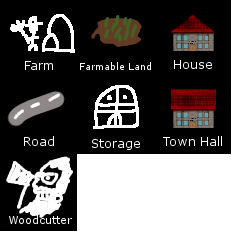
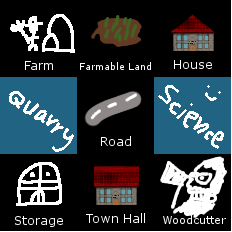
Added scientist

diff --git a/crown/Controls/MenuBuilder.cs b/crown/Controls/MenuBuilder.cs
@@ -14,7 +14,7 @@ namespace crown {
             Button buttonTownhall = new Button();
             buttonTownhall.Pos = new Vector2(xPos + 20, yPos + 20);
             buttonTownhall.Rect = new Rectangle(xPos + 20, yPos + 20, (int)menuTileSheet.Sprite(TexturePackerMonoGameDefinitions.menuAtlas.Buttonfarmland).Size.X, (int)menuTileSheet.Sprite(TexturePackerMonoGameDefinitions.menuAtlas.Buttonfarmland).Size.Y);
-            buttonTownhall.Type = Button.ButtonType.BUTTON_TOWNHALL;
+            buttonTownhall.Type = Button.ButtonType.TOWNHALL;
             buttonTownhall.SpriteFrame = menuTileSheet.Sprite(TexturePackerMonoGameDefinitions.menuAtlas.Buttontownhall);
             menuButtons.Add(buttonTownhall);
         }
@@ -27,7 +27,7 @@ namespace crown {
             Button buttonHouse = new Button();
             buttonHouse.Pos = new Vector2(xPos, yPos);
             buttonHouse.Rect = new Rectangle(xPos, yPos, (int)menuTileSheet.Sprite(TexturePackerMonoGameDefinitions.menuAtlas.Buttonfarmland).Size.X, (int)menuTileSheet.Sprite(TexturePackerMonoGameDefinitions.menuAtlas.Buttonfarmland).Size.Y);
-            buttonHouse.Type = Button.ButtonType.BUTTON_HOUSE;
+            buttonHouse.Type = Button.ButtonType.HOUSE;
             buttonHouse.SpriteFrame = menuTileSheet.Sprite(TexturePackerMonoGameDefinitions.menuAtlas.Buttonhouse);
             menuButtons.Add(buttonHouse);
 
@@ -36,7 +36,7 @@ namespace crown {
             Button buttonRoads = new Button();
             buttonRoads.Pos = new Vector2(xPos, yPos);
             buttonRoads.Rect = new Rectangle(xPos, yPos, (int)menuTileSheet.Sprite(TexturePackerMonoGameDefinitions.menuAtlas.Buttonfarmland).Size.X, (int)menuTileSheet.Sprite(TexturePackerMonoGameDefinitions.menuAtlas.Buttonfarmland).Size.Y);
-            buttonRoads.Type = Button.ButtonType.BUTTON_ROAD;
+            buttonRoads.Type = Button.ButtonType.ROAD;
             buttonRoads.SpriteFrame = menuTileSheet.Sprite(TexturePackerMonoGameDefinitions.menuAtlas.Buttonroad);
             menuButtons.Add(buttonRoads);
 
@@ -45,7 +45,7 @@ namespace crown {
             Button buttonFarm = new Button();
             buttonFarm.Pos = new Vector2(xPos, yPos);
             buttonFarm.Rect = new Rectangle(xPos, yPos, (int)menuTileSheet.Sprite(TexturePackerMonoGameDefinitions.menuAtlas.Buttonfarmland).Size.X, (int)menuTileSheet.Sprite(TexturePackerMonoGameDefinitions.menuAtlas.Buttonfarmland).Size.Y);
-            buttonFarm.Type = Button.ButtonType.BUTTON_FARM;
+            buttonFarm.Type = Button.ButtonType.FARM;
             buttonFarm.SpriteFrame = menuTileSheet.Sprite(TexturePackerMonoGameDefinitions.menuAtlas.Buttonfarm);
             menuButtons.Add(buttonFarm);
 
@@ -54,7 +54,7 @@ namespace crown {
             Button buttonWoodcutter = new Button();
             buttonWoodcutter.Pos = new Vector2(xPos, yPos);
             buttonWoodcutter.Rect = new Rectangle(xPos, yPos, (int)menuTileSheet.Sprite(TexturePackerMonoGameDefinitions.menuAtlas.Buttonfarmland).Size.X, (int)menuTileSheet.Sprite(TexturePackerMonoGameDefinitions.menuAtlas.Buttonfarmland).Size.Y);
-            buttonWoodcutter.Type = Button.ButtonType.BUTTON_WOODCUTTER;
+            buttonWoodcutter.Type = Button.ButtonType.WOODCUTTER;
             buttonWoodcutter.SpriteFrame = menuTileSheet.Sprite(TexturePackerMonoGameDefinitions.menuAtlas.Buttonwoodcutter);
             menuButtons.Add(buttonWoodcutter);
 
@@ -64,7 +64,7 @@ namespace crown {
             Button buttonStorage = new Button();
             buttonStorage.Pos = new Vector2(xPos, yPos);
             buttonStorage.Rect = new Rectangle(xPos, yPos, (int)menuTileSheet.Sprite(TexturePackerMonoGameDefinitions.menuAtlas.Buttonfarmland).Size.X, (int)menuTileSheet.Sprite(TexturePackerMonoGameDefinitions.menuAtlas.Buttonfarmland).Size.Y);
-            buttonStorage.Type = Button.ButtonType.BUTTON_STORAGE;
+            buttonStorage.Type = Button.ButtonType.STORAGE;
             buttonStorage.SpriteFrame = menuTileSheet.Sprite(TexturePackerMonoGameDefinitions.menuAtlas.Buttonstorage);
             menuButtons.Add(buttonStorage);
 
@@ -73,9 +73,18 @@ namespace crown {
             Button buttonQuarry = new Button();
             buttonQuarry.Pos = new Vector2(xPos, yPos);
             buttonQuarry.Rect = new Rectangle(xPos, yPos, (int)menuTileSheet.Sprite(TexturePackerMonoGameDefinitions.menuAtlas.Buttonfarmland).Size.X, (int)menuTileSheet.Sprite(TexturePackerMonoGameDefinitions.menuAtlas.Buttonfarmland).Size.Y);
-            buttonQuarry.Type = Button.ButtonType.BUTTON_QUARRY;
-            buttonQuarry.SpriteFrame = menuTileSheet.Sprite(TexturePackerMonoGameDefinitions.menuAtlas.Buttonstorage);
+            buttonQuarry.Type = Button.ButtonType.QUARRY;
+            buttonQuarry.SpriteFrame = menuTileSheet.Sprite(TexturePackerMonoGameDefinitions.menuAtlas.Buttonquarry);
             menuButtons.Add(buttonQuarry);
+
+            xPos += xOffset;
+
+            Button buttonScientist = new Button();
+            buttonScientist.Pos = new Vector2(xPos, yPos);
+            buttonScientist.Rect = new Rectangle(xPos, yPos, (int)menuTileSheet.Sprite(TexturePackerMonoGameDefinitions.menuAtlas.Buttonfarmland).Size.X, (int)menuTileSheet.Sprite(TexturePackerMonoGameDefinitions.menuAtlas.Buttonfarmland).Size.Y);
+            buttonScientist.Type = Button.ButtonType.SCIENTIST;
+            buttonScientist.SpriteFrame = menuTileSheet.Sprite(TexturePackerMonoGameDefinitions.menuAtlas.Buttonscientist);
+            menuButtons.Add(buttonScientist);
         }
 
     }

diff --git a/crown/Game1.cs b/crown/Game1.cs
@@ -194,18 +194,20 @@ namespace crown {
         private void MenuControls(Point mousePoint) {
             foreach (Button button in menuButtons)
                 if (button.Rect.Contains(mousePoint)) {
-                    if (button.Type == Button.ButtonType.BUTTON_TOWNHALL)
+                    if (button.Type == Button.ButtonType.TOWNHALL)
                         mouseAction = MouseAction.TOWNHALL;
-                    else if (button.Type == Button.ButtonType.BUTTON_ROAD)
+                    else if (button.Type == Button.ButtonType.ROAD)
                         mouseAction = MouseAction.ROAD;
-                    else if (button.Type == Button.ButtonType.BUTTON_HOUSE)
+                    else if (button.Type == Button.ButtonType.HOUSE)
                         mouseAction = MouseAction.HOUSE;
-                    else if (button.Type == Button.ButtonType.BUTTON_FARM)
+                    else if (button.Type == Button.ButtonType.FARM)
                         mouseAction = MouseAction.FARM;
-                    else if (button.Type == Button.ButtonType.BUTTON_WOODCUTTER)
+                    else if (button.Type == Button.ButtonType.WOODCUTTER)
                         mouseAction = MouseAction.WOODCUTTER;
-                    else if (button.Type == Button.ButtonType.BUTTON_QUARRY)
+                    else if (button.Type == Button.ButtonType.QUARRY)
                         mouseAction = MouseAction.QUARRY;
+                    else if (button.Type == Button.ButtonType.SCIENTIST)
+                        mouseAction = MouseAction.SCIENTIST;
                 }
         }
 
@@ -264,6 +266,10 @@ namespace crown {
                     costs = Costs.FarmCosts();
                 if (mouseAction == MouseAction.WOODCUTTER)
                     costs = Costs.WoodcutterCosts();
+                if (mouseAction == MouseAction.QUARRY)
+                    costs = Costs.QuarryCosts();
+                if (mouseAction == MouseAction.SCIENTIST)
+                    costs = Costs.ScientistCosts();
 
                 if (costs != null) {
                     spriteBatch.DrawString(font, mouseAction.ToString(), new Vector2(16, 351), Color.White);

diff --git a/crown/Buildings/Scientist.cs b/crown/Buildings/Scientist.cs
@@ -1,0 +1,40 @@
+using Microsoft.Xna.Framework;
+using TexturePackerLoader;
+using static crown.Game1;
+
+namespace crown.Buildings {
+    class Scientist : Building {
+
+        public Scientist(SpriteFrame spriteFrame, Vector2 position, Rectangle rect, BuildingTypes type, Costs costs) : base(spriteFrame, position, rect, type, costs) {
+        }
+
+        public override void Update() {
+            if (BuildingState == 4) {
+                // People move in and are ready to work
+                Initialize();
+                BuildingState = 5;
+            } else if (BuildingState == 5) {
+
+                // Update resources
+                if (ActionTick > 5) {
+
+                    ActionTick = 0;
+                }
+
+                ActionTick++;
+            }
+        }
+
+        public override void UpdateSprite() {
+            if (BuildingState == 0)
+                SpriteFrame = buildingTileSheet.Sprite(TexturePackerMonoGameDefinitions.buildingAtlas.LargeSelect);
+            if (BuildingState == 1)
+                SpriteFrame = buildingTileSheet.Sprite(TexturePackerMonoGameDefinitions.buildingAtlas.LargeSelect);
+            if (BuildingState == 2)
+                SpriteFrame = buildingTileSheet.Sprite(TexturePackerMonoGameDefinitions.buildingAtlas.LargeSelect);
+            if (BuildingState == 3)
+                SpriteFrame = buildingTileSheet.Sprite(TexturePackerMonoGameDefinitions.buildingAtlas.Scientist);
+        }
+
+    }
+}

diff --git a/crown/SpriteSheets/menuAtlas.cs b/crown/SpriteSheets/menuAtlas.cs
@@ -4,7 +4,7 @@
  * Contains references to each image within the sprite sheet.
  *
  * http://www.codeandweb.com/texturepacker
- * $TexturePacker:SmartUpdate:267c17b291541c1dbedcd2bfd5741068:39ed80fc22ec5ae2918c075b45abb164:bd0f4c71b5cb59f99b3ec3385caa636d$
+ * $TexturePacker:SmartUpdate:916c2e3144c7f988415c70a210acb71f:9ea768b555e2dcd7e1e16591c20fc2ed:bd0f4c71b5cb59f99b3ec3385caa636d$
  *
  */
 namespace TexturePackerMonoGameDefinitions
@@ -14,7 +14,9 @@ namespace TexturePackerMonoGameDefinitions
 		public const string Buttonfarm = "buttonfarm";
 		public const string Buttonfarmland = "buttonfarmland";
 		public const string Buttonhouse = "buttonhouse";
+		public const string Buttonquarry = "buttonquarry";
 		public const string Buttonroad = "buttonroad";
+		public const string Buttonscientist = "buttonscientist";
 		public const string Buttonstorage = "buttonstorage";
 		public const string Buttontownhall = "buttontownhall";
 		public const string Buttonwoodcutter = "buttonwoodcutter";

diff --git a/crown/SpriteSheets/buildingAtlas.cs b/crown/SpriteSheets/buildingAtlas.cs
@@ -4,7 +4,7 @@
  * Contains references to each image within the sprite sheet.
  *
  * http://www.codeandweb.com/texturepacker
- * $TexturePacker:SmartUpdate:a16777abdbeb0a4d11603705e89cb2c3:6cf66f83230fe79a0c79dbd8865472a0:905072b72ea92acf8fa5b0216a681f3c$
+ * $TexturePacker:SmartUpdate:d5ff0d81d94fb42e95c36da221316700:89f18e023deb2ed8f717be74ee758396:905072b72ea92acf8fa5b0216a681f3c$
  *
  */
 namespace TexturePackerMonoGameDefinitions
@@ -26,6 +26,7 @@ namespace TexturePackerMonoGameDefinitions
 		public const string House8 = "house8";
 		public const string LargeSelect = "largeSelect";
 		public const string Quarry = "quarry";
+		public const string Scientist = "scientist";
 		public const string SmallSelect = "smallSelect";
 		public const string Townhall = "townhall";
 		public const string Woodcutter4 = "woodcutter4";

diff --git a/crown/Drawing.cs b/crown/Drawing.cs
@@ -24,7 +24,7 @@ namespace crown {
         public static void DrawMouseSelection(SpriteRender spriteRender, Vector2 mousePosition, MouseAction mouseAction) {
             SpriteFrame spriteframe = null;
 
-            if (mouseAction == MouseAction.TOWNHALL || mouseAction == MouseAction.FARM)
+            if (mouseAction == MouseAction.TOWNHALL || mouseAction == MouseAction.FARM || mouseAction == MouseAction.SCIENTIST)
                 spriteframe = buildingTileSheet.Sprite(TexturePackerMonoGameDefinitions.buildingAtlas.LargeSelect);
             if (mouseAction == MouseAction.HOUSE || mouseAction == MouseAction.ROAD || mouseAction == MouseAction.WOODCUTTER || mouseAction == MouseAction.QUARRY)
                 spriteframe = buildingTileSheet.Sprite(TexturePackerMonoGameDefinitions.buildingAtlas.SmallSelect);

diff --git a/crown/Buildings/Costs.cs b/crown/Buildings/Costs.cs
@@ -55,6 +55,19 @@ namespace crown {
                              0);   // FoodUpkeep
         }
 
+        internal static Costs ScientistCosts() {
+            return new Costs(0,     // Stone 
+                             -100,    // Wood
+                             -500,   // Gold
+                             0,     // Workers
+                             0,     // Population
+                             0,     // Food
+                             -50,     // GoldUpkeep
+                             -10,     // WoodUpkeep
+                             -8,     // StoneUpkeep
+                             -5);   // FoodUpkeep
+        }
+
         int stone;
         int wood;
         int gold;

diff --git a/crown/Controls/Controls.cs b/crown/Controls/Controls.cs
@@ -33,6 +33,9 @@ namespace crown {
                     if (mouseAction == MouseAction.QUARRY) {
                         BuildingOperations.BuildQuarry(tile, Building.BuildingTypes.QUARRY, Costs.WoodcutterCosts());
                     }
+                    if (mouseAction == MouseAction.SCIENTIST) {
+                        BuildingOperations.BuildLargeBuilding(tile, Building.BuildingTypes.SCIENTIST, Costs.ScientistCosts());
+                    }
                     if (mouseAction == MouseAction.ROAD) {
                         BuildingOperations.BuildRoad(tile, false);
                     }

diff --git a/crown/Controls/BuildingOperations.cs b/crown/Controls/BuildingOperations.cs
@@ -144,6 +144,8 @@ namespace crown {
         private static Building GetLargeBuilding(SpriteFrame spriteFrame, Vector2 pos, Rectangle rect, Building.BuildingTypes type, Costs costs) {
             if (type == Building.BuildingTypes.FARM)
                 return new Farm(spriteFrame, pos, rect, type, costs);
+            if (type == Building.BuildingTypes.SCIENTIST)
+                return new Scientist(spriteFrame, pos, rect, type, costs);
 
             return null;
         }

diff --git a/crown/Controls/Button.cs b/crown/Controls/Button.cs
@@ -15,7 +15,7 @@ namespace crown {
         public SpriteFrame SpriteFrame { get => spriteFrame; set => spriteFrame = value; }
 
         public enum ButtonType {
-            MAIN, BUTTON_HOUSE, BUTTON_TOWNHALL, BUTTON_FARMLAND, BUTTON_ROAD, BUTTON_FARM, BUTTON_WOODCUTTER, BUTTON_STORAGE, BUTTON_QUARRY
+            MAIN, HOUSE, TOWNHALL, FARMLAND, ROAD, FARM, WOODCUTTER, STORAGE, QUARRY, SCIENTIST
         }
 
 
